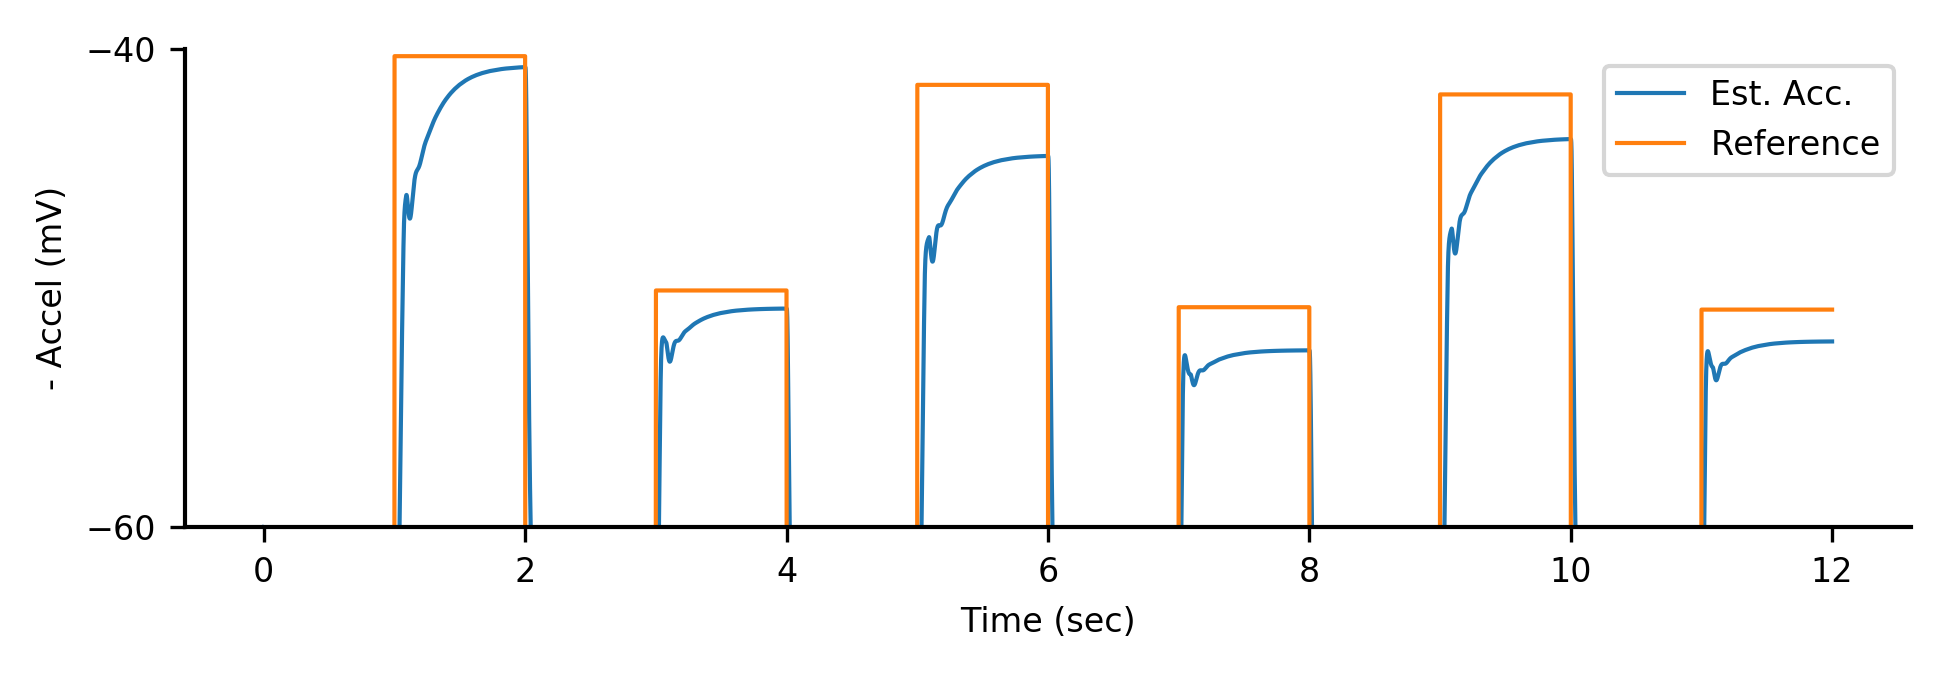
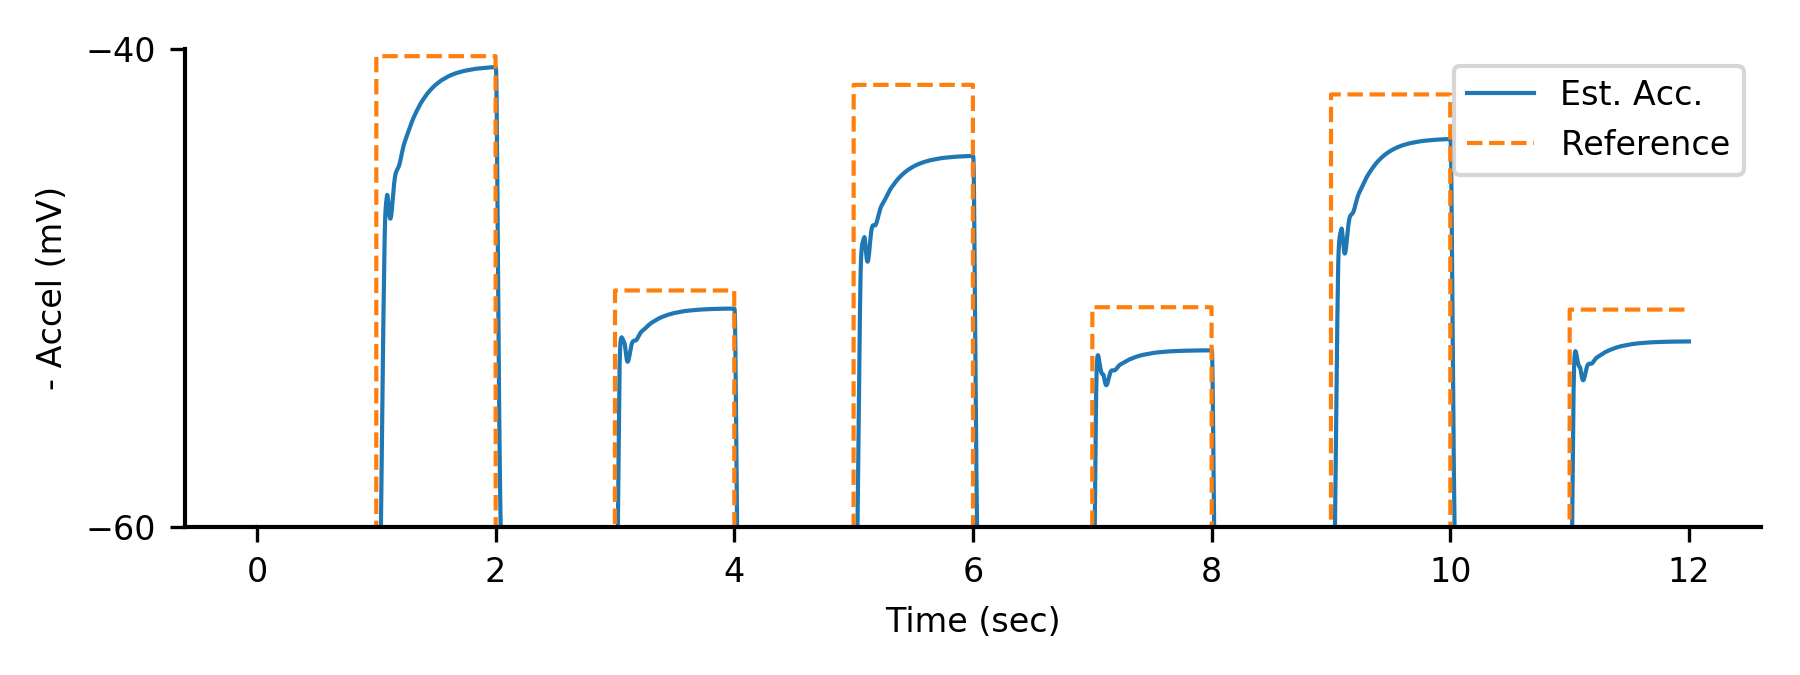
More redash

diff --git a/writeup/chapters/results.tex b/writeup/chapters/results.tex
@@ -117,98 +117,98 @@ Test results are generated based on data tools in \github{PuppyNeuronPlayground}
 
 \begin{figure}
 \centering
-\includegraphics[height=1.9in]{results/TestVelPosWide}
+\includegraphics[height=2.25in]{results/TestVelPosWide}
 \caption{Testing positive velocity estimation}
 \label{fig:TestVelPos}
 \end{figure}
 
 \begin{figure}
 \centering
-\includegraphics[height=1.9in]{results/TestVelNegWide}
+\includegraphics[height=2.25in]{results/TestVelNegWide}
 \caption{Testing negative velocity estimation}
 \label{fig:TestVelNeg}
 \end{figure}
 
 \begin{figure}
 \centering
-\includegraphics[height=1.9in]{results/TestAccelPosWide}
+\includegraphics[height=2.25in]{results/TestAccelPosWide}
 \caption{Testing positive acceleration estimation}
 \label{fig:TestAccelPos}
 \end{figure}
 
 \begin{figure}
 \centering
-\includegraphics[height=1.9in]{results/TestAccelNegWide}
+\includegraphics[height=2.25in]{results/TestAccelNegWide}
 \caption{Testing negative acceleration estimation}
 \label{fig:TestAccelNeg}
 \end{figure}
 
 \begin{figure}
 \centering
-\includegraphics[height=1.9in]{results/TestTorqueOptimizationPosWide}
+\includegraphics[height=2.25in]{results/TestTorqueOptimizationPosWide}
 \caption{Testing positive torque optimization loop}
 \label{fig:TestTorqueOptimizationPos}
 \end{figure}
 
 \begin{figure}
 \centering
-\includegraphics[height=1.9in]{results/TestTorqueOptimizationNegWide}
+\includegraphics[height=2.25in]{results/TestTorqueOptimizationNegWide}
 \caption{Testing negative torque optimization loop}
 \label{fig:TestTorqueOptimizationNeg}
 \end{figure}
 
 \begin{figure}
 \centering
-\includegraphics[height=1.9in]{results/TestT2APosWide}
+\includegraphics[height=2.25in]{results/TestT2APosWide}
 \caption{Estimated positive acceleration from torque}
 \label{fig:TestT2APos}
 \end{figure}
 
 \begin{figure}
 \centering
-\includegraphics[height=1.9in]{results/TestT2ANegWide}
+\includegraphics[height=2.25in]{results/TestT2ANegWide}
 \caption{Estimated negative acceleration from torque}
 \label{fig:TestT2ANeg}
 \end{figure}
 
 \begin{figure}
 \centering
-\includegraphics[height=1.9in]{results/TestT2PExtWide}
+\includegraphics[height=2.25in]{results/TestT2PExtWide}
 \caption{Estimated extension pressure from desired torque}
 \label{fig:TestT2PPos}
 \end{figure}
 
 \begin{figure}
 \centering
-\includegraphics[height=1.9in]{results/TestT2PFlxWide}
+\includegraphics[height=2.25in]{results/TestT2PFlxWide}
 \caption{Estimated flexion pressure from desired torque}
 \label{fig:TestT2PNeg}
 \end{figure}
 
 \begin{figure}
 \centering
-\includegraphics[height=1.9in]{results/TestSystemCPosWide}
+\includegraphics[height=2.25in]{results/TestSystemCPosWide}
 \caption{Positive neuron and actual damping factor updates}
 \label{fig:TestSystemCPos}
 \end{figure}
 
 \begin{figure}
 \centering
-\includegraphics[height=1.9in]{results/TestSystemCNegWide}
+\includegraphics[height=2.25in]{results/TestSystemCNegWide}
 \caption{Negative neuron and actual damping factor updates}
 \label{fig:TestSystemCNeg}
 \end{figure}
 
 \begin{figure}
 \centering
-\includegraphics[height=1.9in]{results/TestSystemNPosWide}
+\includegraphics[height=2.25in]{results/TestSystemNPosWide}
 \caption{Positive neuron and actual load factor updates}
 \label{fig:TestSystemNPos}
 \end{figure}
 
 \begin{figure}
 \centering
-\includegraphics[height=1.9in]{results/TestSystemNNegWide}
+\includegraphics[height=2.25in]{results/TestSystemNNegWide}
 \caption{Negative neuron and actual load factor updates}
 \label{fig:TestSystemNNeg}
 \end{figure}

diff --git a/writeup/scripts/plot_T2A.py b/writeup/scripts/plot_T2A.py
@@ -62,14 +62,14 @@ for name, datasets in setup:
     #     ax = ax1
     # else:
     #     ax = ax2
-    fig = plt.figure(figsize=(6.5, 2.25), dpi=300)
+    fig = plt.figure(figsize=(6, 2.25), dpi=300)
     ax = fig.add_subplot('111')
     count += 1
 
     vel, ref = datasets
     # print(len(time))
     ax.plot(time[5000:], vel[5000:], linewidth=linewidth, label='Est. Acc.')
-    ax.plot(time[5000:], ref[5000:], linewidth=linewidth, label='Reference')
+    ax.plot(time[5000:], ref[5000:], linewidth=linewidth, linestyle='dashed', label='Reference')
     
     if count == 1:
         ax.set_ylabel('+ Accel (mV)')

diff --git a/writeup/scripts/plot_accel.py b/writeup/scripts/plot_accel.py
@@ -52,12 +52,12 @@ for name, datasets in setup:
     # else:
     #     ax = ax2
     count += 1
-    fig = plt.figure(figsize=(6.5,2.25,), dpi=300)
+    fig = plt.figure(figsize=(6,2.25,), dpi=300)
     ax = fig.add_subplot('111')
 
     vel, ref = datasets
     ax.plot(time[5000:], vel[5000:], linewidth=linewidth, label='Est. Acc.')
-    ax.plot(time[5000:], ref[5000:], linewidth=linewidth, label='Reference')
+    ax.plot(time[5000:], ref[5000:], linewidth=linewidth, linestyle='dashed', label='Reference')
     
     if count == 1:
         ax.set_ylabel('+ Accel (mV)')

diff --git a/writeup/scripts/plot_vel.py b/writeup/scripts/plot_vel.py
@@ -32,7 +32,7 @@ for name, datasets in setup:
     # else:
     #     ax = ax2
     count += 1
-    fig = plt.figure(figsize=(6.5,2.25,), dpi=300)
+    fig = plt.figure(figsize=(6,2.25,), dpi=300)
     ax = fig.add_subplot('111')
 
     vel, ref = datasets

diff --git a/writeup/scripts/plot_torque_optimize.py b/writeup/scripts/plot_torque_optimize.py
@@ -71,7 +71,7 @@ for name, datasets in setup:
     # else:
     #     ax = ax2
     count += 1
-    fig = plt.figure(figsize=(6.5,2.25,), dpi=300)
+    fig = plt.figure(figsize=(6,2.25,), dpi=300)
     ax = fig.add_subplot('111')
 
 
